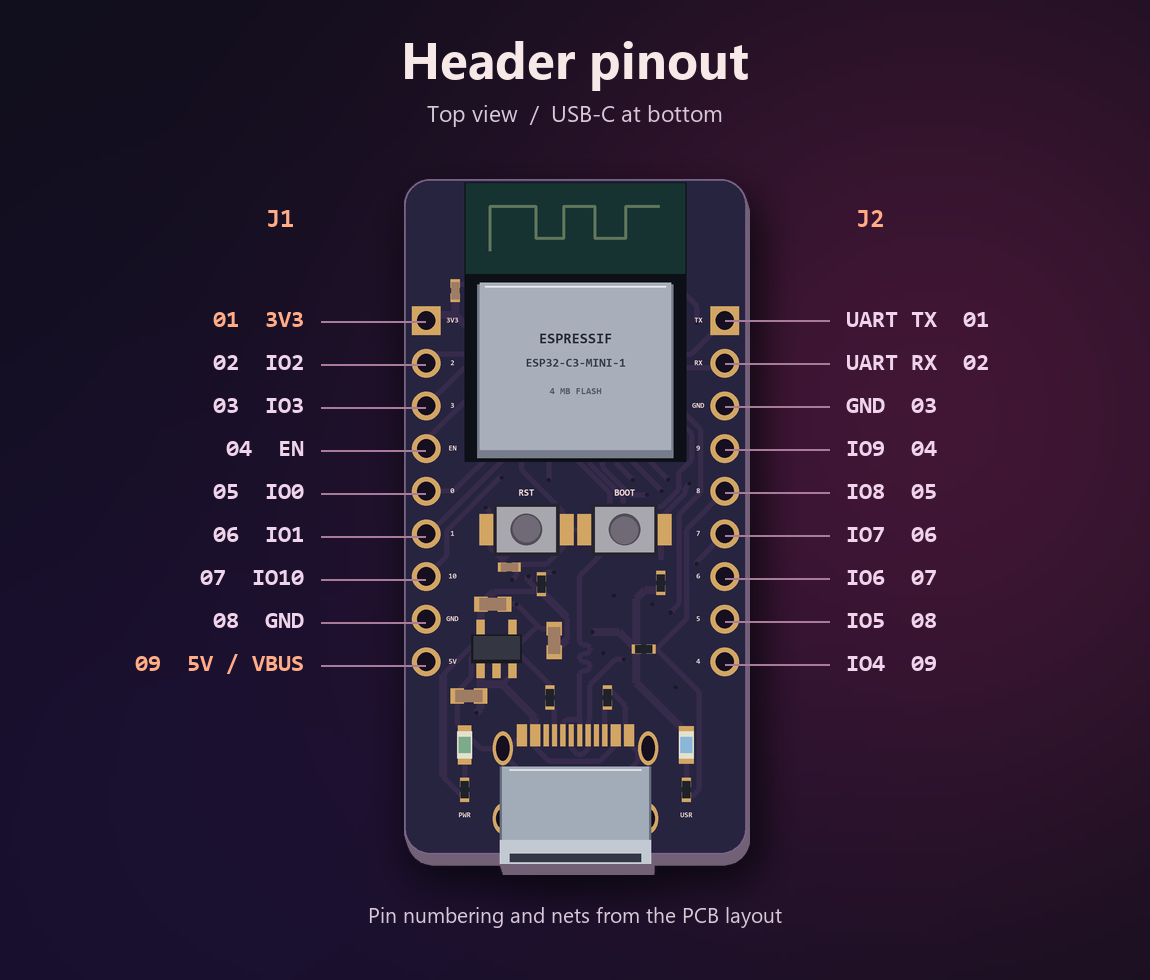
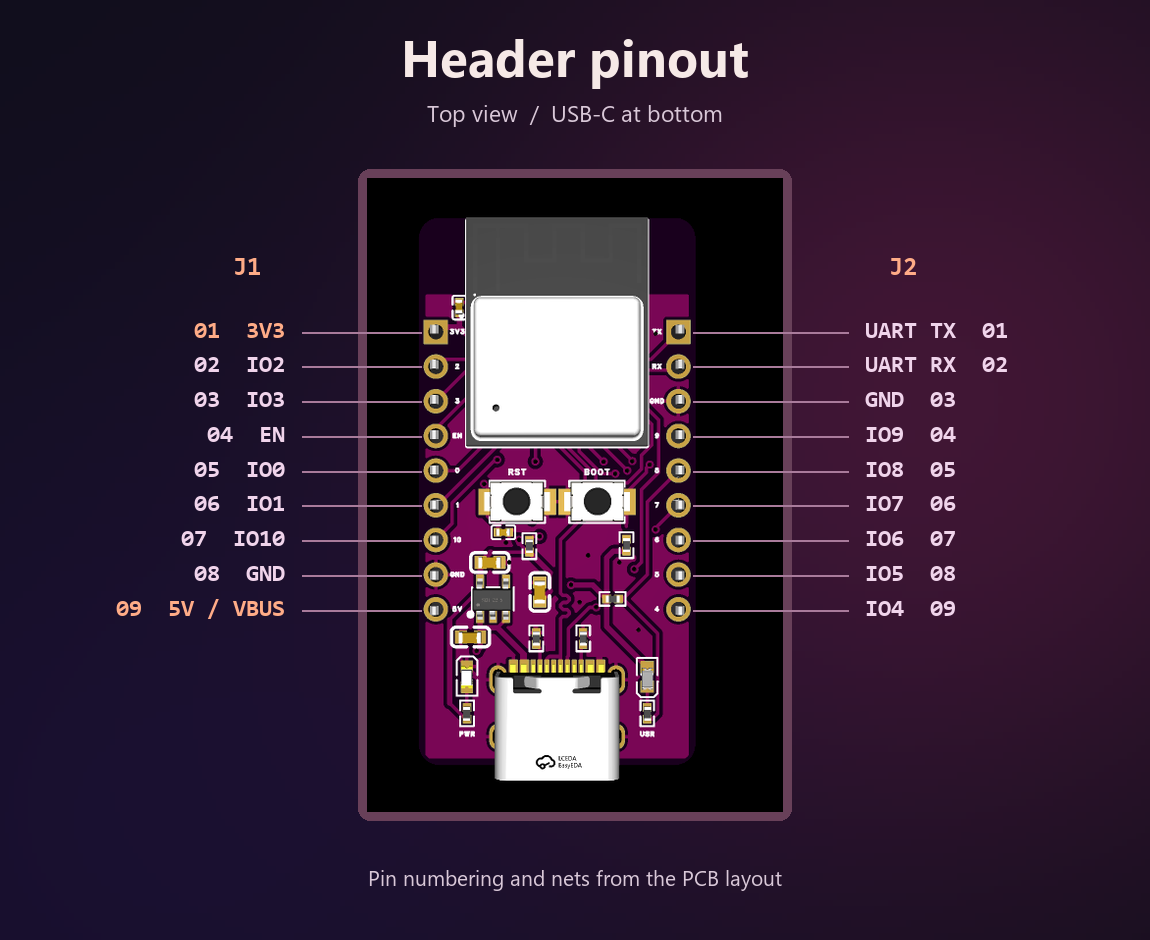
Use supplied front and back PCB renders

diff --git a/README.md b/README.md
@@ -31,7 +31,7 @@ The graphic shows the board from the component side with USB-C at the bottom. J1
 
 <img src="docs/pcb-front.png" width="48%" alt="Front render with the ESP32-C3 module, buttons, and USB-C connector"> <img src="docs/pcb-back.png" width="48%" alt="Back render with synthwave artwork and header labels">
 
-The illustrations use the PCB outline, footprint placement, header nets, and artwork from the saved design. Component bodies, colors, and finishes are illustrative.
+The front and back renders show the assembled board from both sides.
 
 ## EasyEDA Pro project
 
